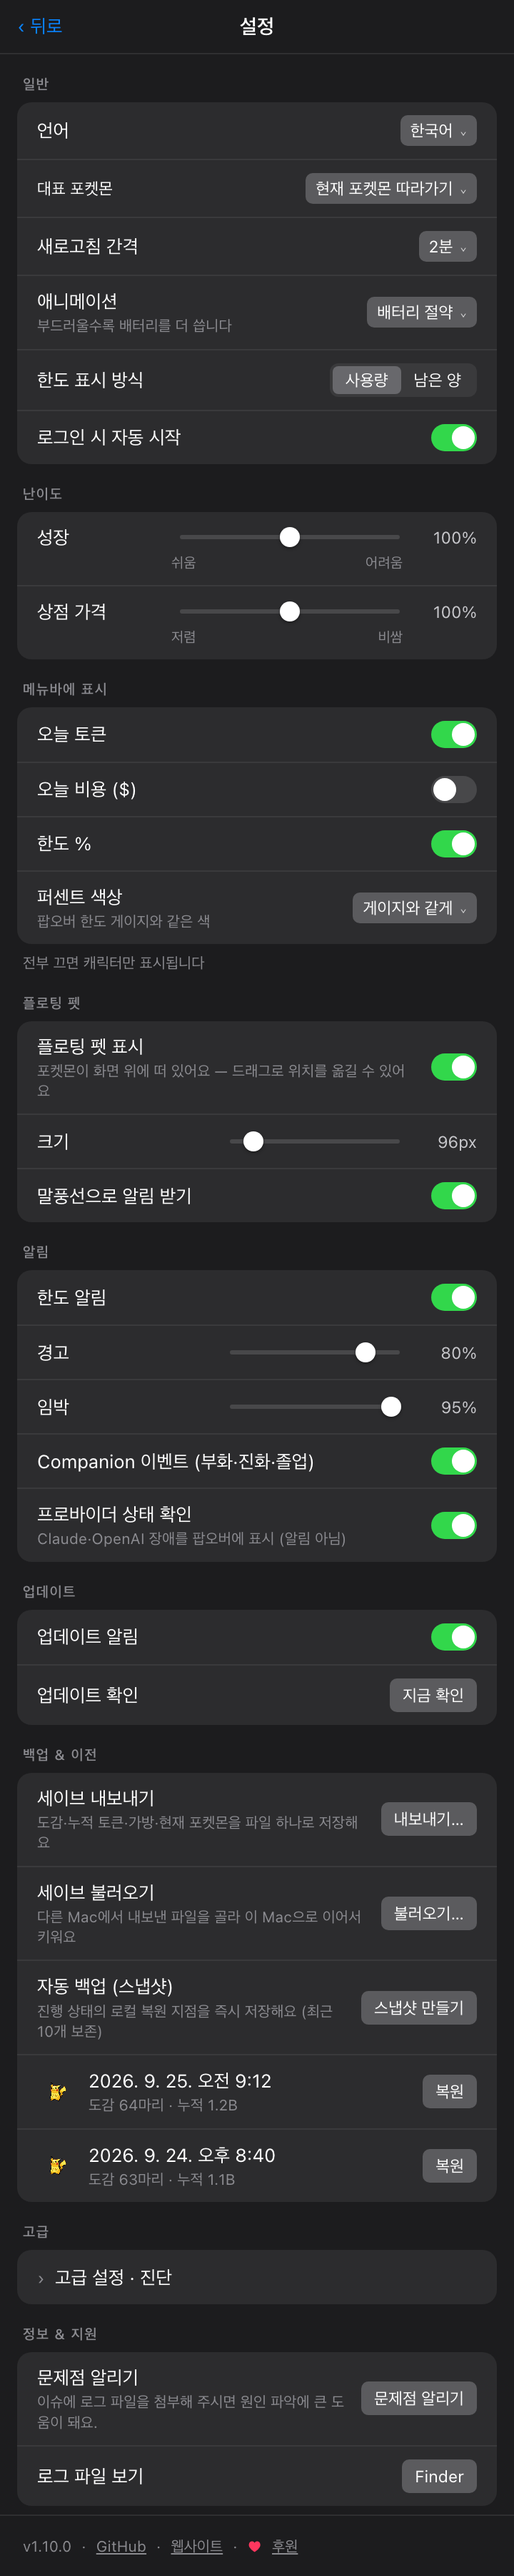
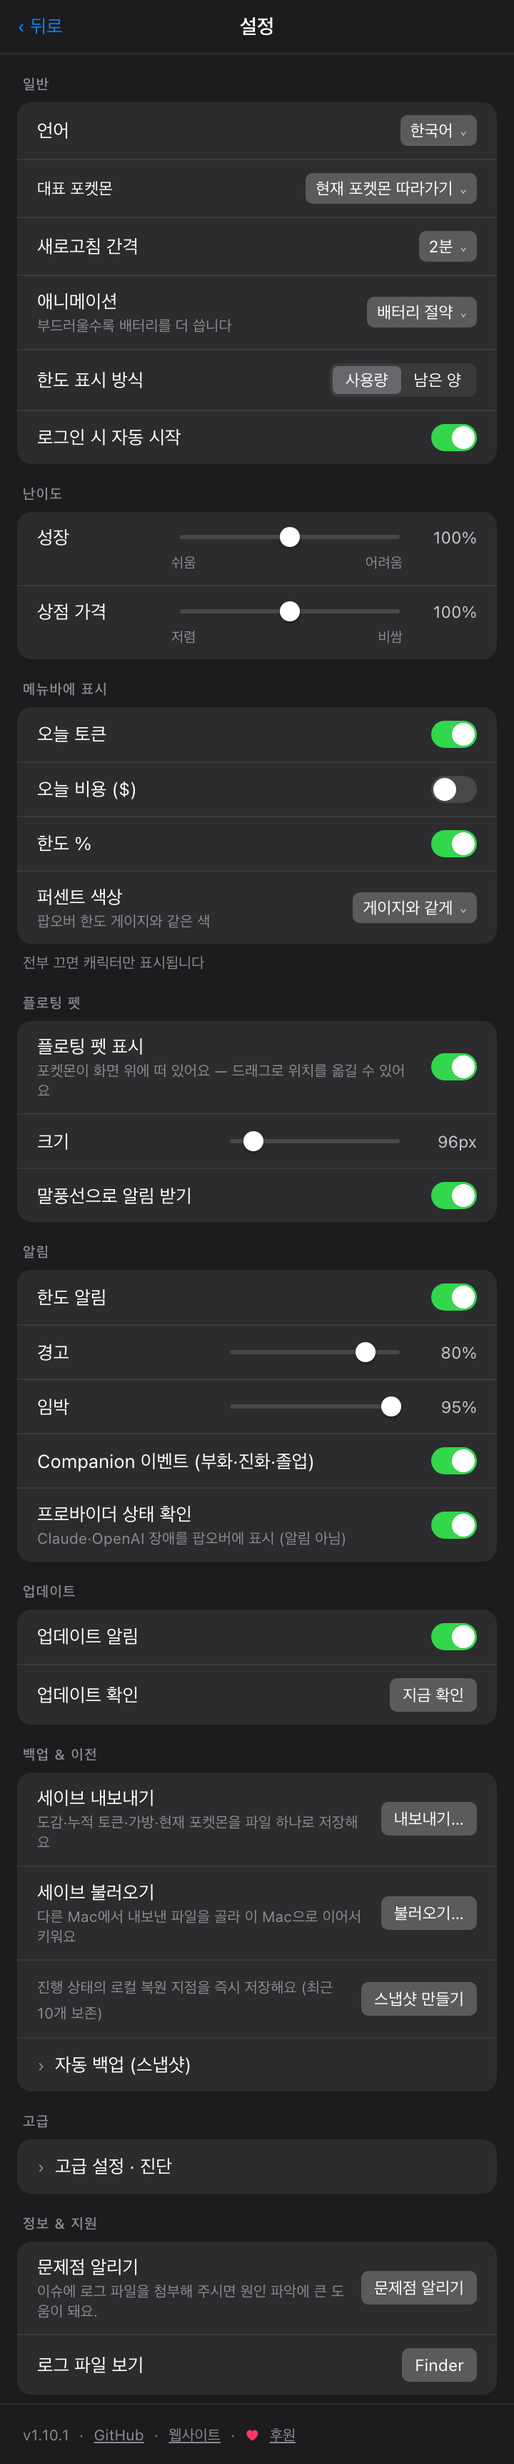
docs: redraw Settings screenshots with collapsed backup history for 1.10.1
Upstream #446 starts automatic backup history collapsed and moves Create
snapshot outside the list, so the Settings images now show the hint row,
the button and a collapsed history header instead of two expanded rows.
Footer version follows the release.

diff --git a/scripts/gen-settings-screenshots.py b/scripts/gen-settings-screenshots.py
@@ -23,7 +23,7 @@ REPO = os.path.dirname(os.path.dirname(os.path.abspath(__file__)))
 OUT = os.path.join(REPO, "assets")
 TMP = os.path.join(REPO, "build")
 CHROME = "/Applications/Google Chrome.app/Contents/MacOS/Google Chrome"
-VERSION = "1.10.0"
+VERSION = "1.10.1"
 
 # ko, en, ja — Localization.swift 의 t(ko, en, ja, es) 순서에서 es 만 뺐다.
 S = {
@@ -129,11 +129,6 @@ S = {
                    "Saves an instant local restore point of your progress (keeps up to 10)",
                    "現在の進行状況の復元ポイントを即座に保存します（最新10件を保持）"),
  "snapBtn":       ("스냅샷 만들기", "Create snapshot", "スナップショットを作成"),
- "restoreBtn":    ("복원", "Restore", "復元"),
- "snap1Date":     ("2026. 9. 25. 오전 9:12", "Sep 25, 2026 at 9:12 AM", "2026/09/25 9:12"),
- "snap1Meta":     ("도감 64마리 · 누적 1.2B", "Pokédex 64 · 1.2B lifetime", "図鑑 64匹 · 累計 1.2B"),
- "snap2Date":     ("2026. 9. 24. 오후 8:40", "Sep 24, 2026 at 8:40 PM", "2026/09/24 20:40"),
- "snap2Meta":     ("도감 63마리 · 누적 1.1B", "Pokédex 63 · 1.1B lifetime", "図鑑 63匹 · 累計 1.1B"),
  "orgValue":      ("회사 Team Plan", "Company Team Plan", "会社 Team Plan"),
  "save":          ("저장", "Save", "保存"),
  "delete":        ("삭제", "Delete", "削除"),
@@ -348,13 +343,9 @@ def html(lang, advanced=False):
         card(
             row(s("exportLabel"), f'<div class="btn">{s("exportBtn")}</div>', s("exportHint")),
             row(s("importLabel"), f'<div class="btn">{s("importBtn")}</div>', s("importHint")),
-            row(s("snapTitle"), f'<div class="btn">{s("snapBtn")}</div>', s("snapHint")),
-            row(f'<div style="display:flex;align-items:center;gap:8px">{sprite(25)}'
-                f'<div><div>{s("snap1Date")}</div><div class="h">{s("snap1Meta")}</div></div></div>',
-                f'<div class="btn">{s("restoreBtn")}</div>'),
-            row(f'<div style="display:flex;align-items:center;gap:8px">{sprite(25)}'
-                f'<div><div>{s("snap2Date")}</div><div class="h">{s("snap2Meta")}</div></div></div>',
-                f'<div class="btn">{s("restoreBtn")}</div>'),
+            # 백업 기록은 설정을 열 때마다 접힌 채로 시작한다(#446) — 펼친 행은 그리지 않는다.
+            row(f'<span class="h">{s("snapHint")}</span>', f'<div class="btn">{s("snapBtn")}</div>'),
+            row(f'<span class="chev">›</span>&nbsp; {s("snapTitle")}', ""),
         ),
         sec(s("advanced")),
         card(row(f'<span class="chev">›</span>&nbsp; {s("advancedRow")}', "")),
